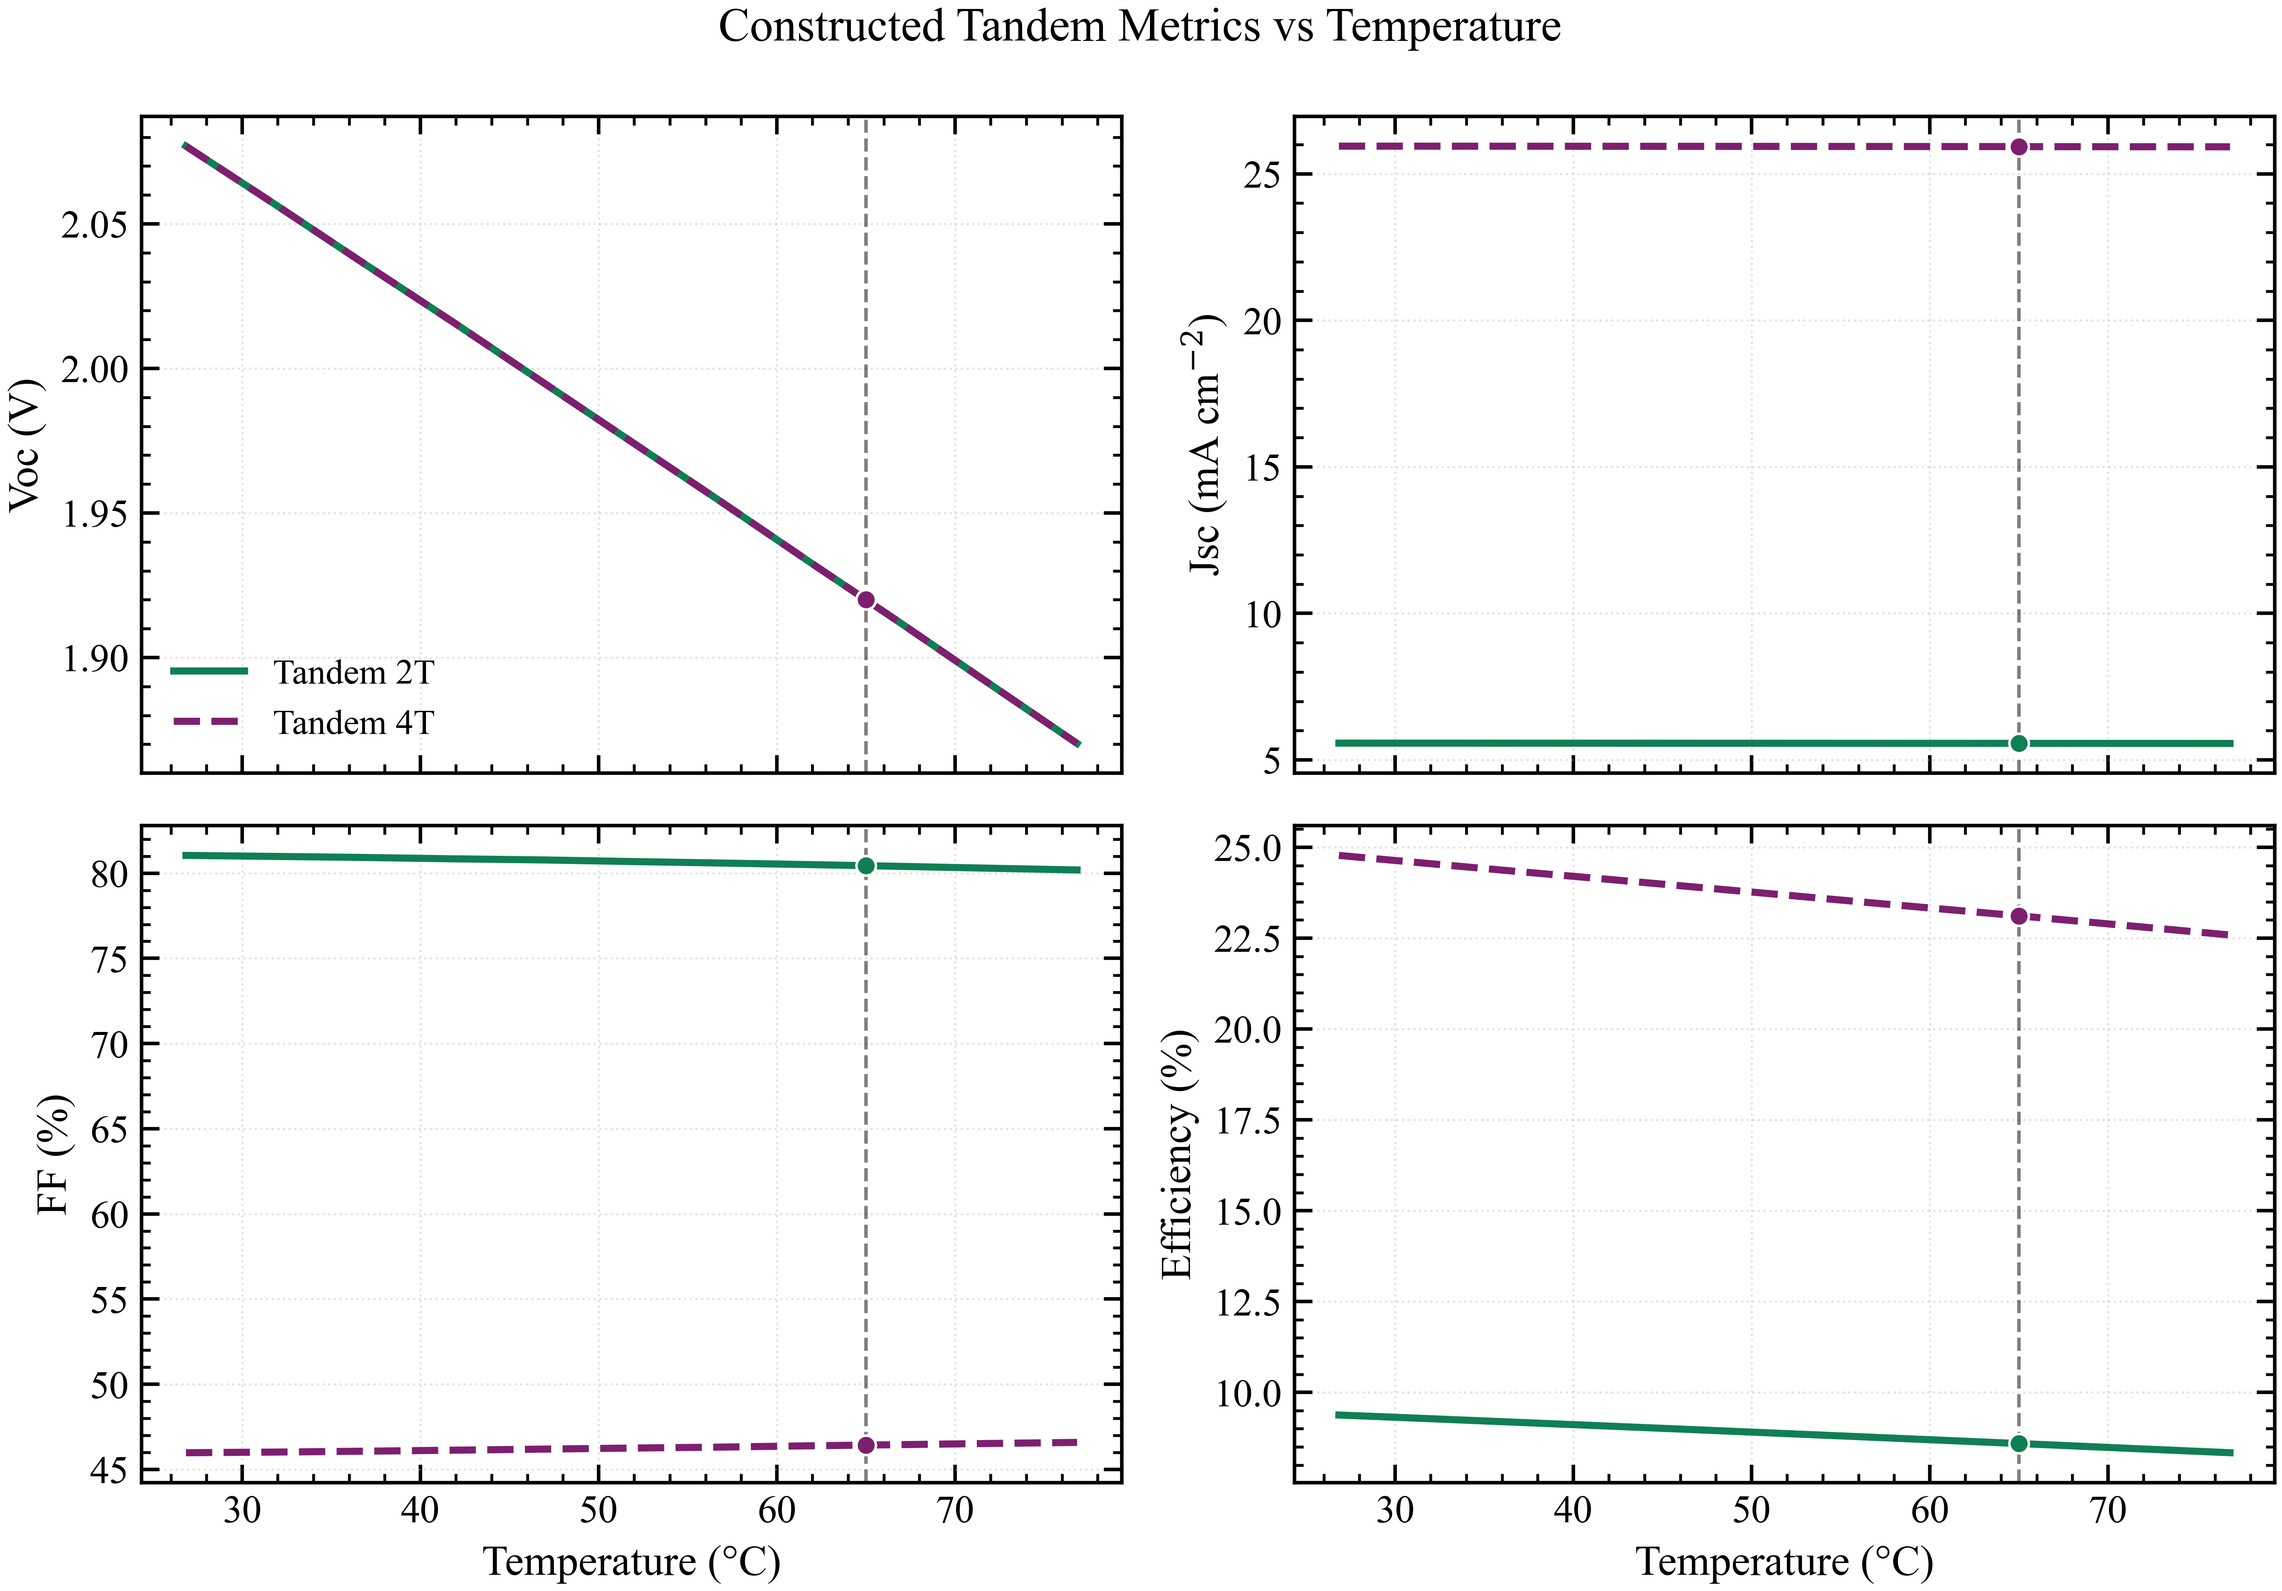
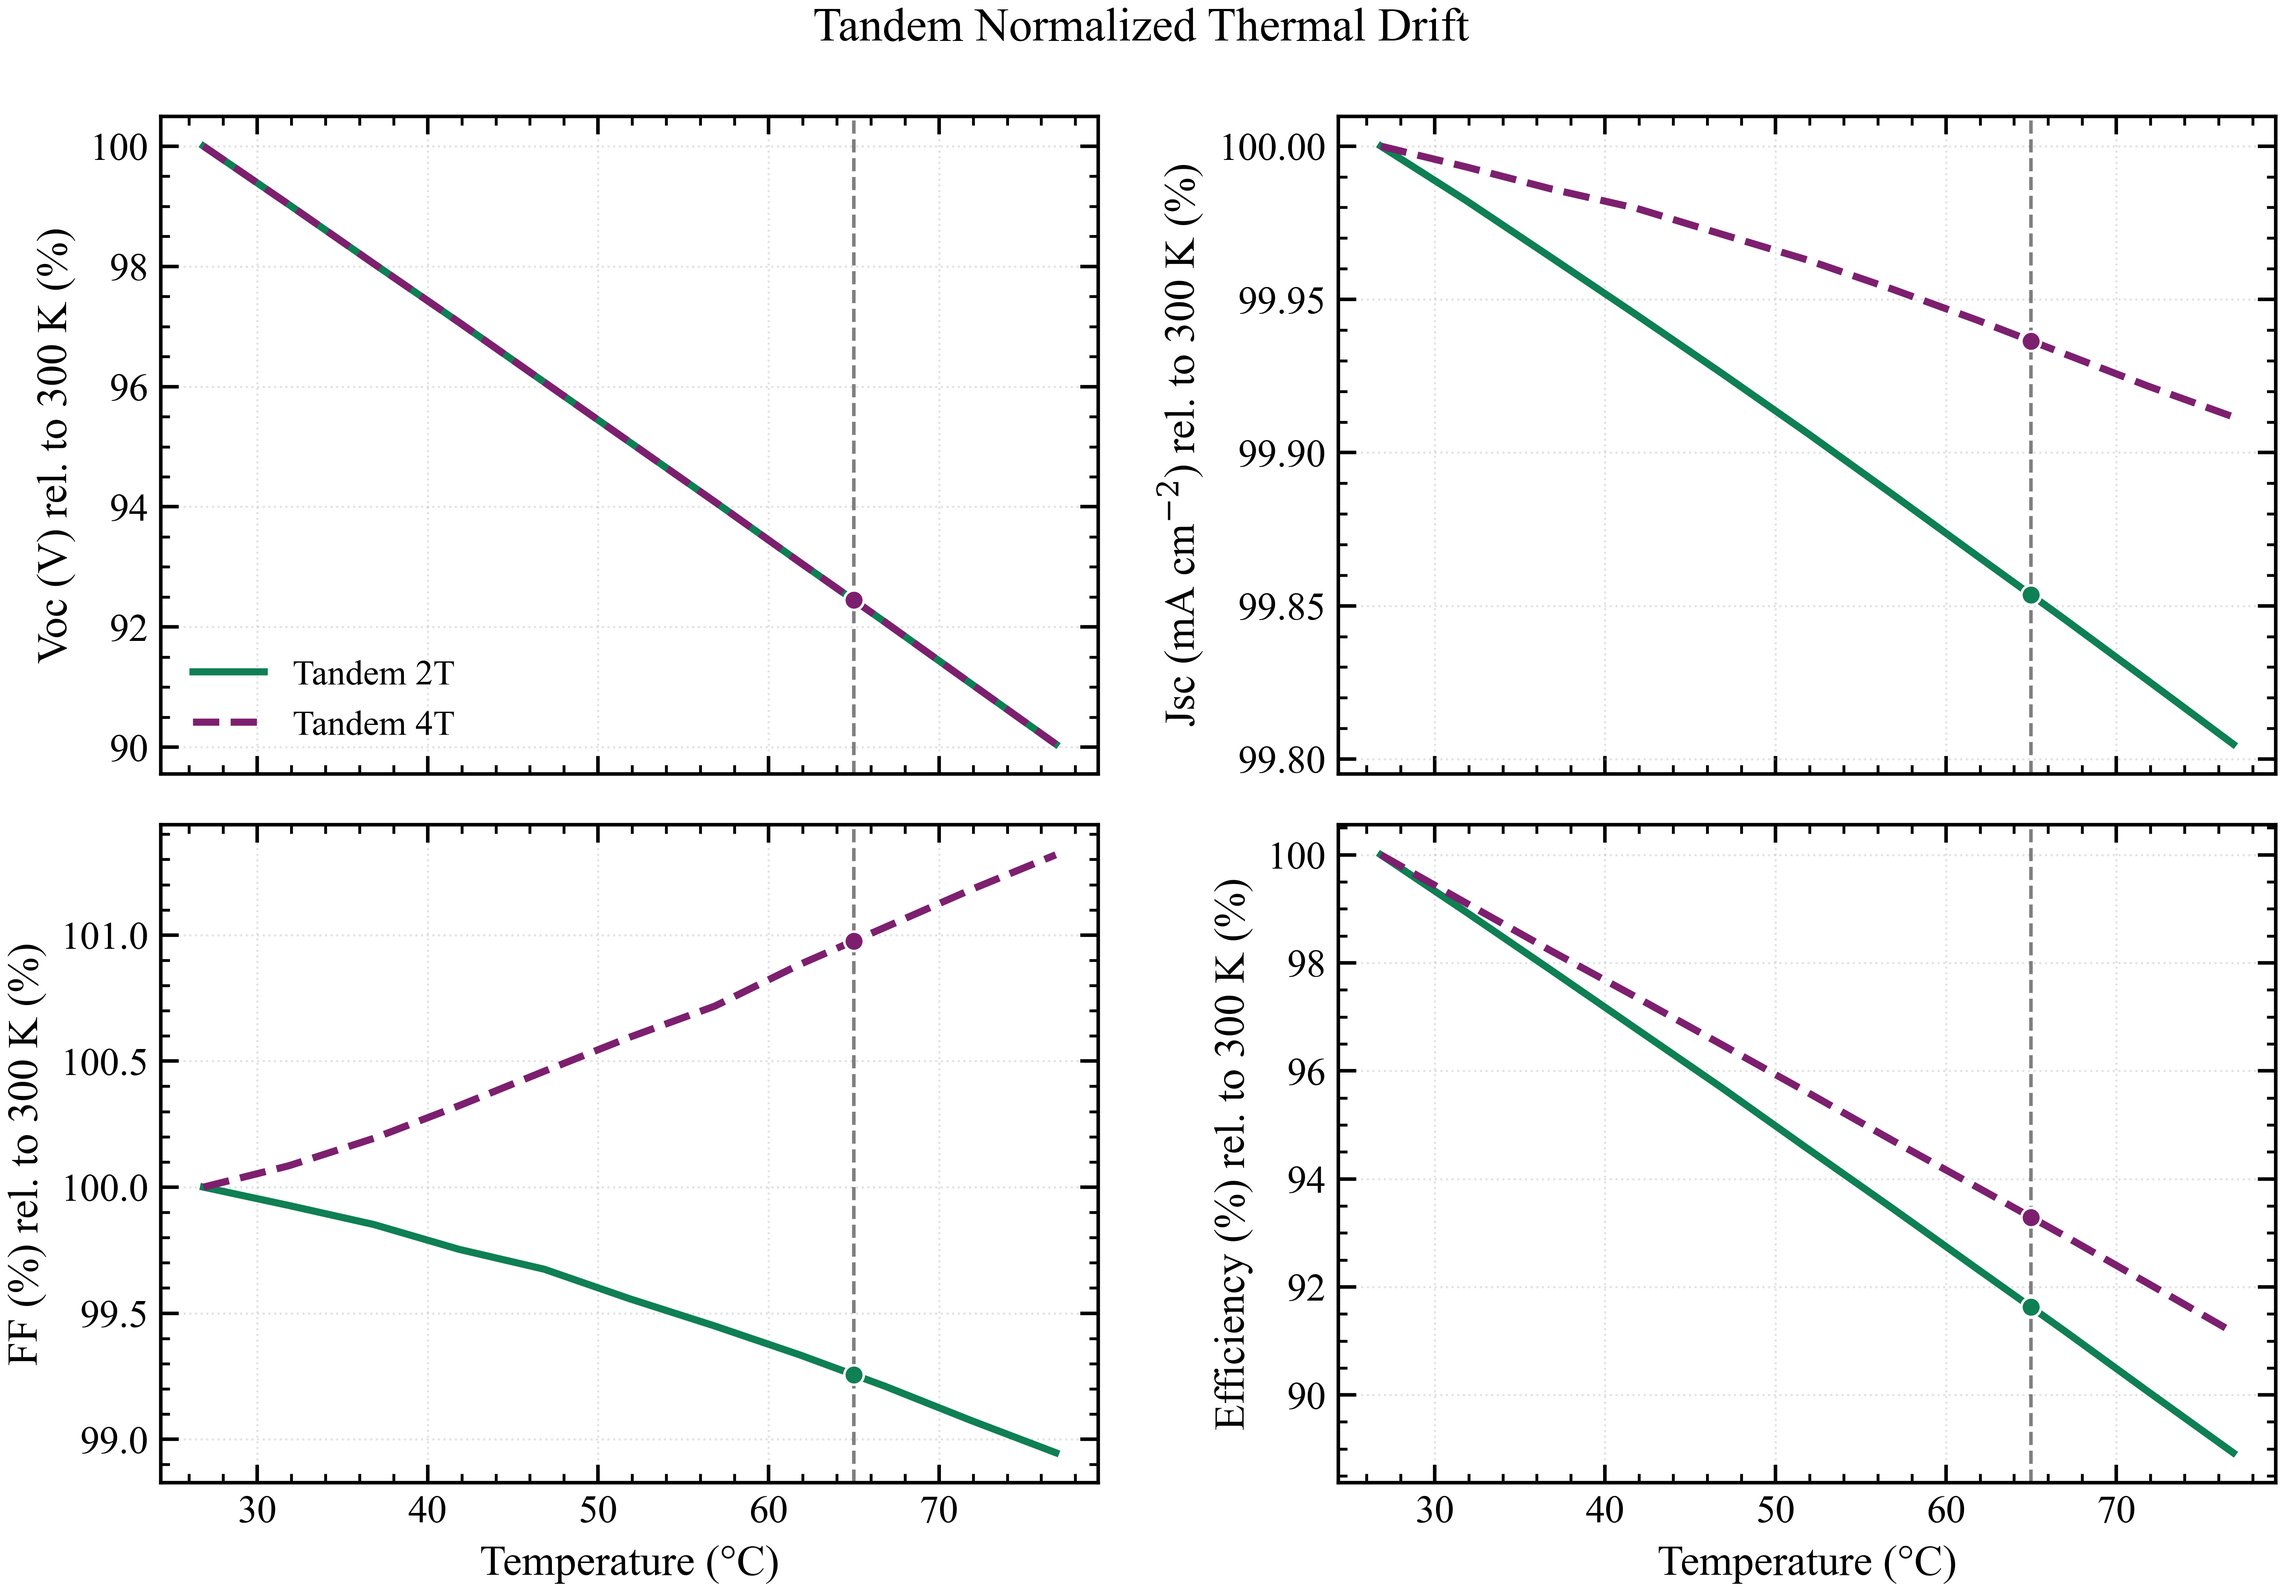
I changed the tandem plotting the same way as the sub-cell plotting.
2T and 4T now each have their own absolute metric figure:

tandem_2t_metrics_vs_temperature.png
tandem_4t_metrics_vs_temperature.png
I also repurposed the shared tandem figure into a normalized comparison, which is now actually useful for thermal sensitivity:

tandem_metrics_vs_temperature.png
The logic is:

Separate absolute plots answer: how does 2T change with temperature, and how does 4T change with temperature?
The normalized comparison answers: which tandem architecture is more thermally stable for each metric?
That is more interpretable than putting 2T and 4T on the same absolute axes, especially because Jsc, FF, and eta live on very different scales between the two definitions. It also makes the Voc overlap less misleading, since in your current equivalent-4T definition the Voc is the same as 2T by construction.

The code change is in thermal_tandem_analysis.py, and I reran the full workflow.

diff --git a/scripts/thermal_tandem_analysis.py b/scripts/thermal_tandem_analysis.py
@@ -579,6 +579,7 @@ def plot_tandem_metrics(
 ) -> None:
     temperatures_k, _ = extract_series(tandem_rows, "Tandem_2T", "voc")
     x_celsius = temperature_to_celsius(temperatures_k)
+    baseline_k = float(np.min(temperatures_k))
     series_map = {
         "Tandem 2T": {"cell": "Tandem_2T", "color": "#0f7f54", "ls": "-"},
         "Tandem 4T": {"cell": "Tandem_4T", "color": "#7d1f6f", "ls": "--"},
@@ -588,10 +589,12 @@ def plot_tandem_metrics(
     for ax, metric_name in zip(axes.flat, METRIC_META.keys()):
         for label, meta in series_map.items():
             _, values = extract_series(tandem_rows, meta["cell"], metric_name)
-            ax.plot(x_celsius, values, color=meta["color"], lw=2.0, ls=meta["ls"], label=label)
+            baseline_value = interpolate_series(temperatures_k, values, baseline_k)
+            rel_values = 100.0 * values / baseline_value
+            ax.plot(x_celsius, rel_values, color=meta["color"], lw=2.0, ls=meta["ls"], label=label)
             ax.scatter(
                 [target_temp_c],
-                [np.interp(target_temp_c, x_celsius, values)],
+                [np.interp(target_temp_c, x_celsius, rel_values)],
                 s=30,
                 color=meta["color"],
                 edgecolor="white",
@@ -599,13 +602,13 @@ def plot_tandem_metrics(
                 zorder=3,
             )
         add_reference_vertical(ax, target_temp_c)
-        ax.set_ylabel(METRIC_META[metric_name]["label"])
+        ax.set_ylabel(f"{METRIC_META[metric_name]['label']} rel. to 300 K (%)")
         style_axis(ax)
 
     axes[1, 0].set_xlabel("Temperature (°C)")
     axes[1, 1].set_xlabel("Temperature (°C)")
     axes[0, 0].legend(loc="best")
-    fig.suptitle("Constructed Tandem Metrics vs Temperature", y=0.99)
+    fig.suptitle("Tandem Normalized Thermal Drift", y=0.99)
     fig.tight_layout()
     fig.savefig(out_path, dpi=600)
     plt.close(fig)
@@ -1015,6 +1018,25 @@ def main() -> None:
         figures_dir / "subcell_metric_separation_vs_temperature.png",
         top_rows,
         bottom_rows,
+        args.target_temp_c,
+    )
+    tandem_2t_rows = [row for row in tandem_rows if row["cell"] == "Tandem_2T"]
+    tandem_4t_rows = [row for row in tandem_rows if row["cell"] == "Tandem_4T"]
+
+    plot_single_cell_metrics(
+        figures_dir / "tandem_2t_metrics_vs_temperature.png",
+        tandem_2t_rows,
+        "2T Tandem Metrics vs Temperature",
+        "#0f7f54",
+        "Tandem 2T",
+        args.target_temp_c,
+    )
+    plot_single_cell_metrics(
+        figures_dir / "tandem_4t_metrics_vs_temperature.png",
+        tandem_4t_rows,
+        "4T Equivalent Tandem Metrics vs Temperature",
+        "#7d1f6f",
+        "Tandem 4T",
         args.target_temp_c,
     )
     plot_tandem_metrics(figures_dir / "tandem_metrics_vs_temperature.png", tandem_rows, args.target_temp_c)
